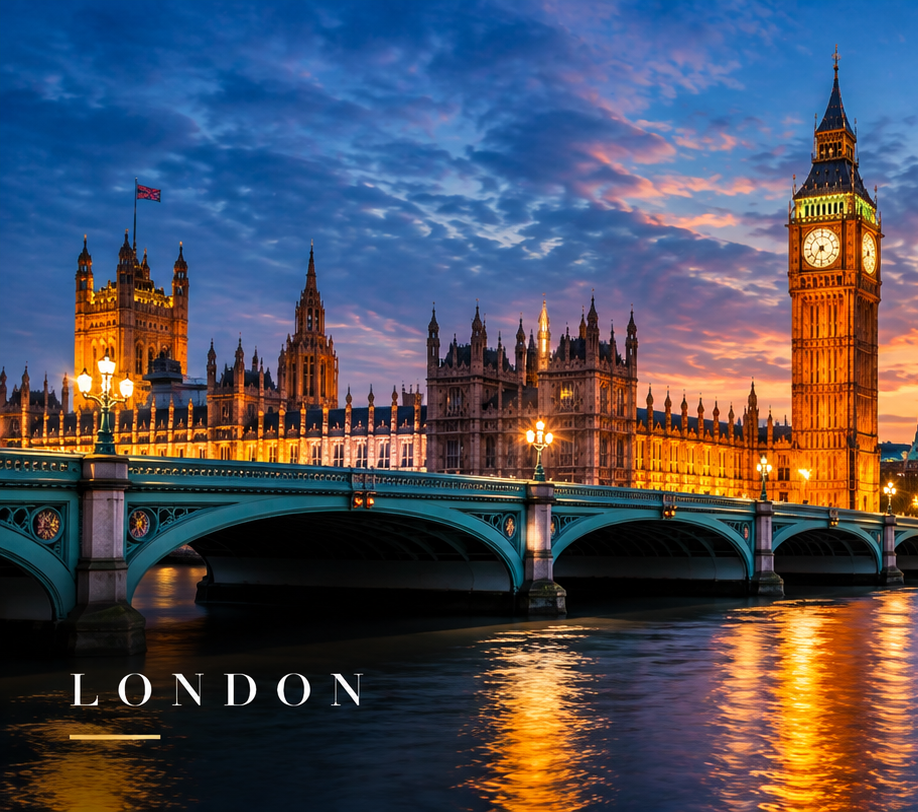
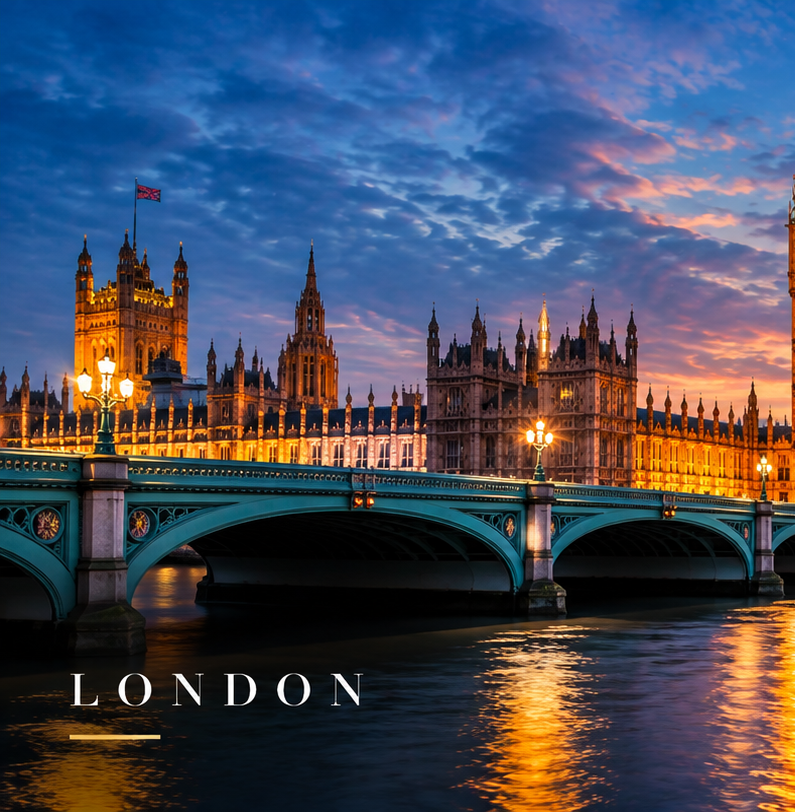
updated images

diff --git a/business-and-leisure.html b/business-and-leisure.html
@@ -1618,7 +1618,7 @@
           </p>
           <div class="jump-row">
             <a href="#calibre">It Is the Calibre of the Room</a>
-            <a href="#business">Business at a Different Level</a>
+            <!-- <a href="#business">Business at a Different Level</a> -->
             <a href="#bkc">A Business Club in the Heart of BKC</a>
             <a href="#leisure">Leisure With Purpose</a>
             <a href="#networking">A More Considered Form of Networking</a>
@@ -1672,7 +1672,7 @@
       </div>
 
       <!-- BUSINESS AT A DIFFERENT LEVEL — Warren Buffett room, day/night interactive swap -->
-      <section class="pillar" id="business">
+      <!-- <section class="pillar" id="business">
         <div class="split">
           <div class="split-media dn-swap reveal" data-thumbs>
             <img
@@ -1729,11 +1729,11 @@
             <p></p>
           </div>
         </div>
-      </section>
+      </section> -->
 
-      <div class="divider reveal" aria-hidden="true">
+      <!-- <div class="divider reveal" aria-hidden="true">
         <span class="diamond"></span>
-      </div>
+      </div> -->
 
       <!-- A BUSINESS CLUB IN THE HEART OF BKC -->
       <section class="pillar" id="bkc">
@@ -1741,7 +1741,7 @@
           <div class="split-media reveal">
             <img
               class="zoomable"
-              src="assets/placeholder.svg"
+              src="images/business club in the heart of bkc.jpeg"
               alt="Mirrored corridor at The Indus Club in Bandra Kurla Complex, lined with framed artwork"
             />
           </div>
@@ -1930,7 +1930,7 @@
         <div class="feature-art full-bleed reveal-scale" data-parallax>
           <img
             class="zoomable"
-            src="assets/placeholder.svg"
+            src="images/a more considered form of networking.jpeg"
             alt="Riviera Lounge at The Indus Club at dusk, a relaxed setting for conversation"
           />
           <div class="feature-art-shade"></div>

diff --git a/partnerships.html b/partnerships.html
@@ -1628,7 +1628,7 @@
           <div class="split-media reveal">
             <img
               class="zoomable"
-              src="assets/placeholder.svg"
+              src="images/alliances.png"
               alt="A luxury brand alliance with The Indus Club"
             />
           </div>
@@ -1698,8 +1698,8 @@
                   ></div>
                   <img
                     class="zoomable"
-                    src="images/singapore (1).jpg"
-                    alt="Singapore, home to one of The Indus Club's reciprocal clubs"
+                    src="images/california.png"
+                    alt="California, home to one of The Indus Club's reciprocal clubs"
                   />
                 </div>
                 <div class="car-slide">
@@ -1711,8 +1711,8 @@
                   ></div>
                   <img
                     class="zoomable"
-                    src="images/california.png"
-                    alt="California, home to one of The Indus Club's reciprocal clubs"
+                    src="images/singapore.jpeg"
+                    alt="Singapore, home to one of The Indus Club's reciprocal clubs"
                   />
                 </div>
               </div>

diff --git a/club-membership.html b/club-membership.html
@@ -1666,7 +1666,7 @@
             <a href="#categories">Membership Categories</a>
             <a href="#boundaries">A Life Without Ordinary Boundaries</a>
             <a href="#terms">Membership Terms</a>
-            <a href="#different">What Makes Membership Different?</a>
+            <!-- <a href="#different">What Makes Membership Different?</a> -->
             <a href="#register">How to Register Your Interest</a>
           </div>
         </div>
@@ -1891,7 +1891,7 @@
       </div>
 
       <!-- WHAT MAKES MEMBERSHIP DIFFERENT? -->
-      <section class="pillar" id="different">
+      <!-- <section class="pillar" id="different">
         <div class="feature-art full-bleed reveal-scale" data-parallax>
           <img
             class="zoomable"
@@ -1930,7 +1930,7 @@
 
       <div class="divider reveal" aria-hidden="true">
         <span class="diamond"></span>
-      </div>
+      </div> -->
 
       <!-- HOW TO REGISTER YOUR INTEREST -->
       <section class="pillar" id="register">

diff --git a/wine-and-dine.html b/wine-and-dine.html
@@ -1859,7 +1859,7 @@
           <div class="split-media reveal">
             <img
               class="zoomable"
-              src="assets/wine and dine/nowhere else.png"
+              src="images/bar.jpeg"
               alt="The Nowhere Else Bar Collection at The Indus Club, a curated shelf of whiskies and single malts"
             />
           </div>
